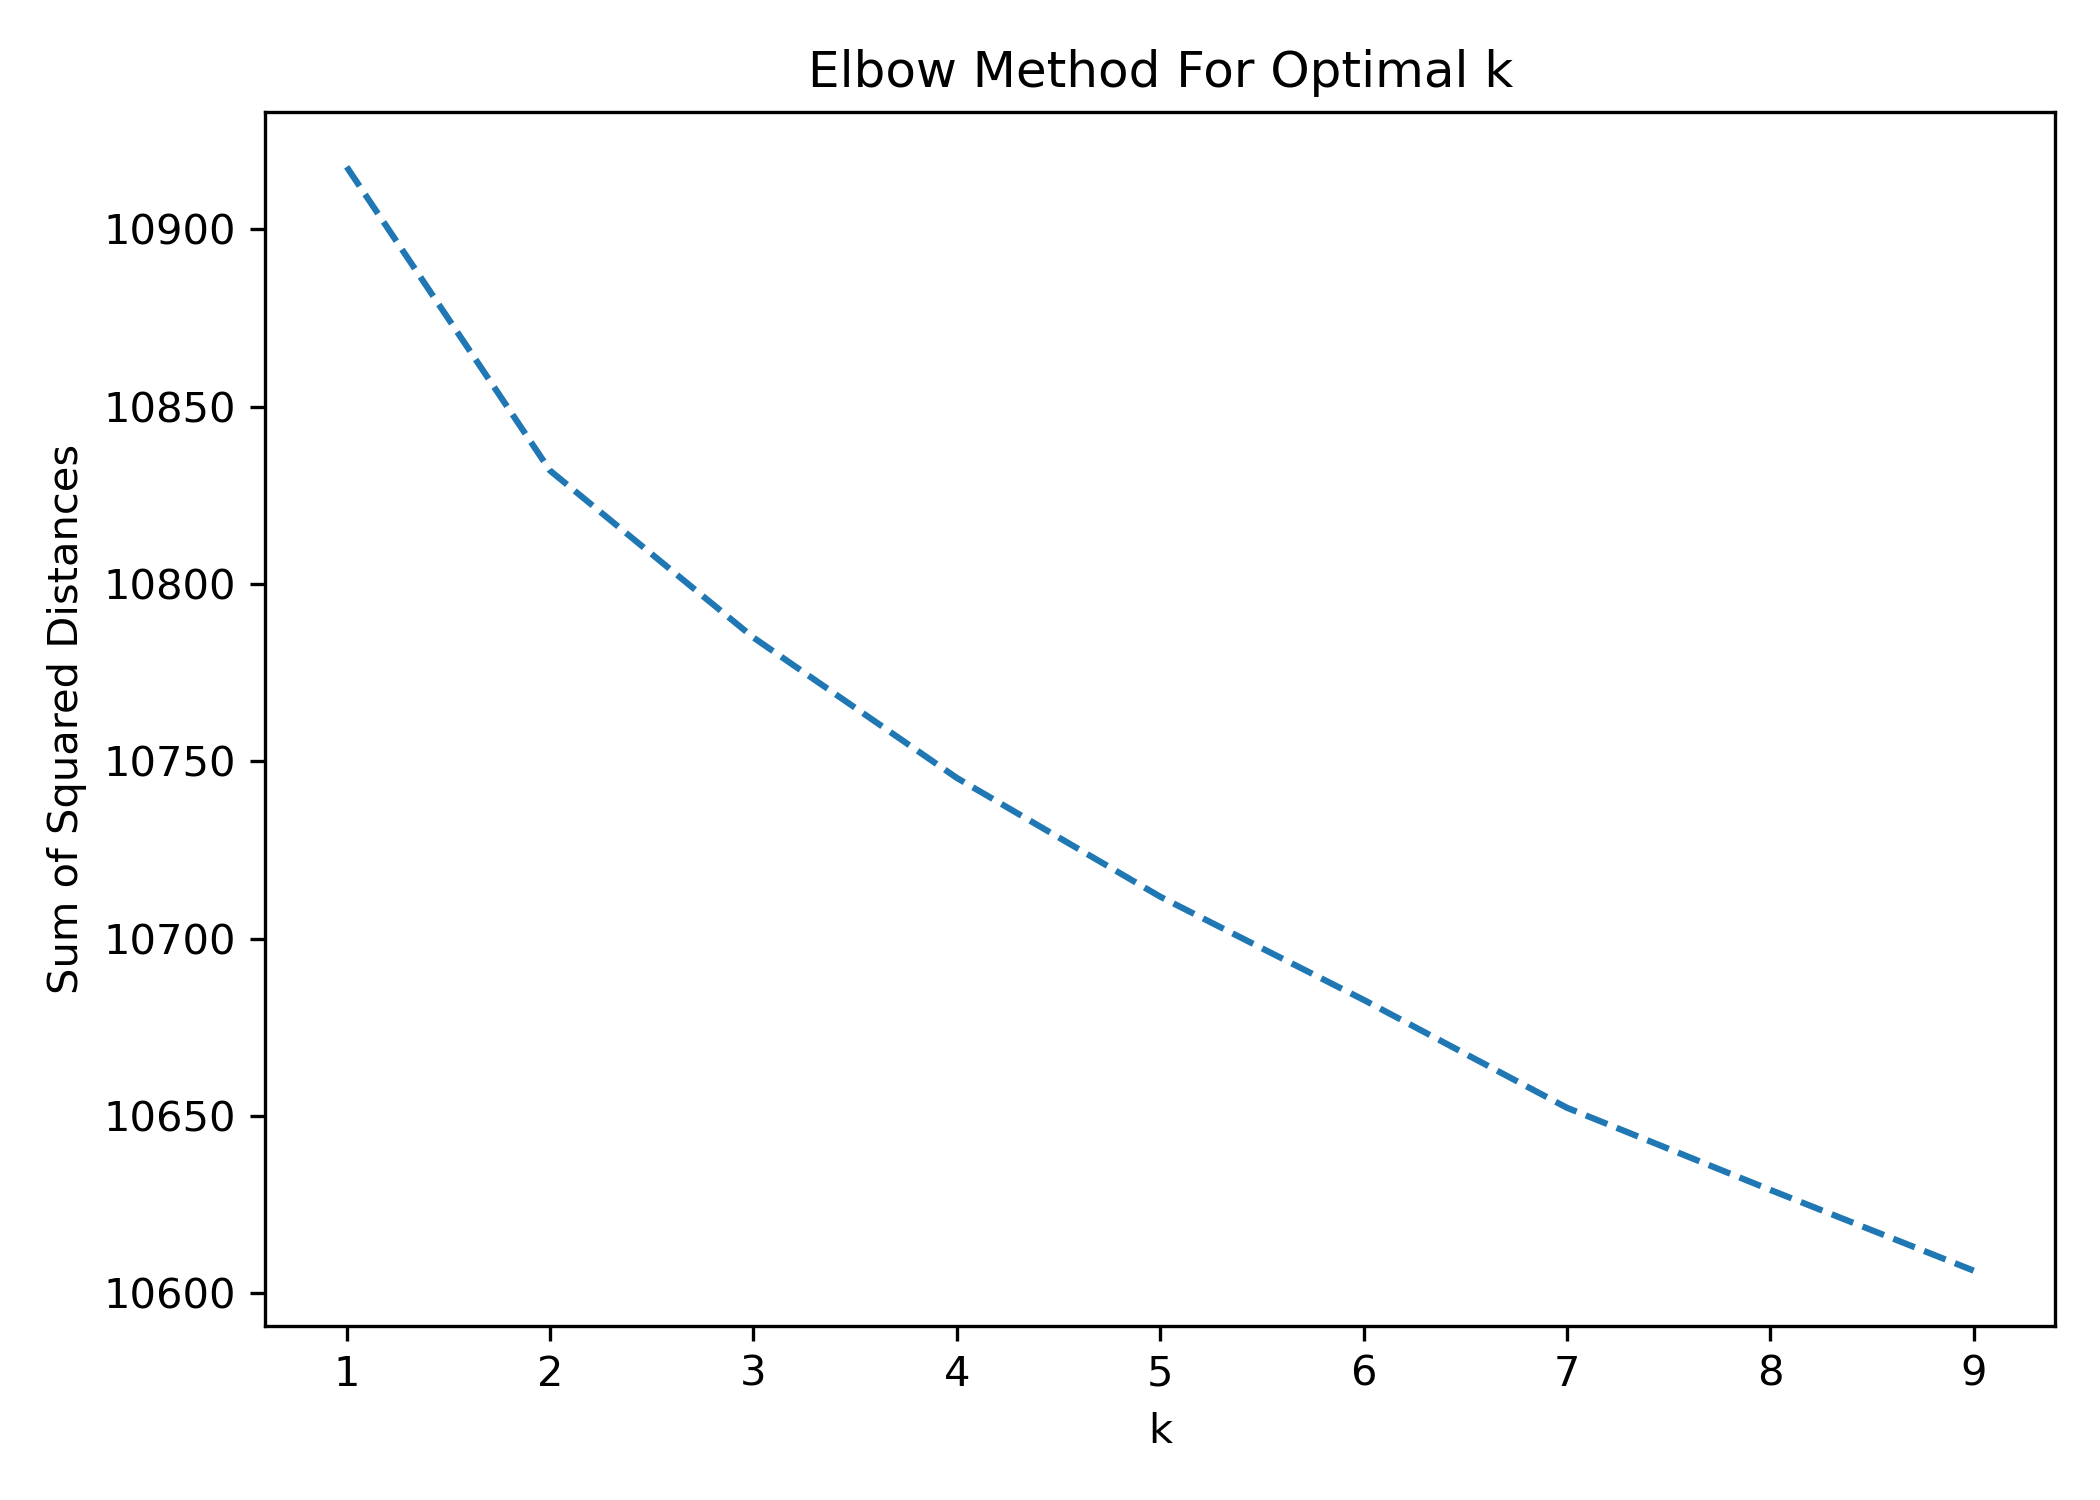
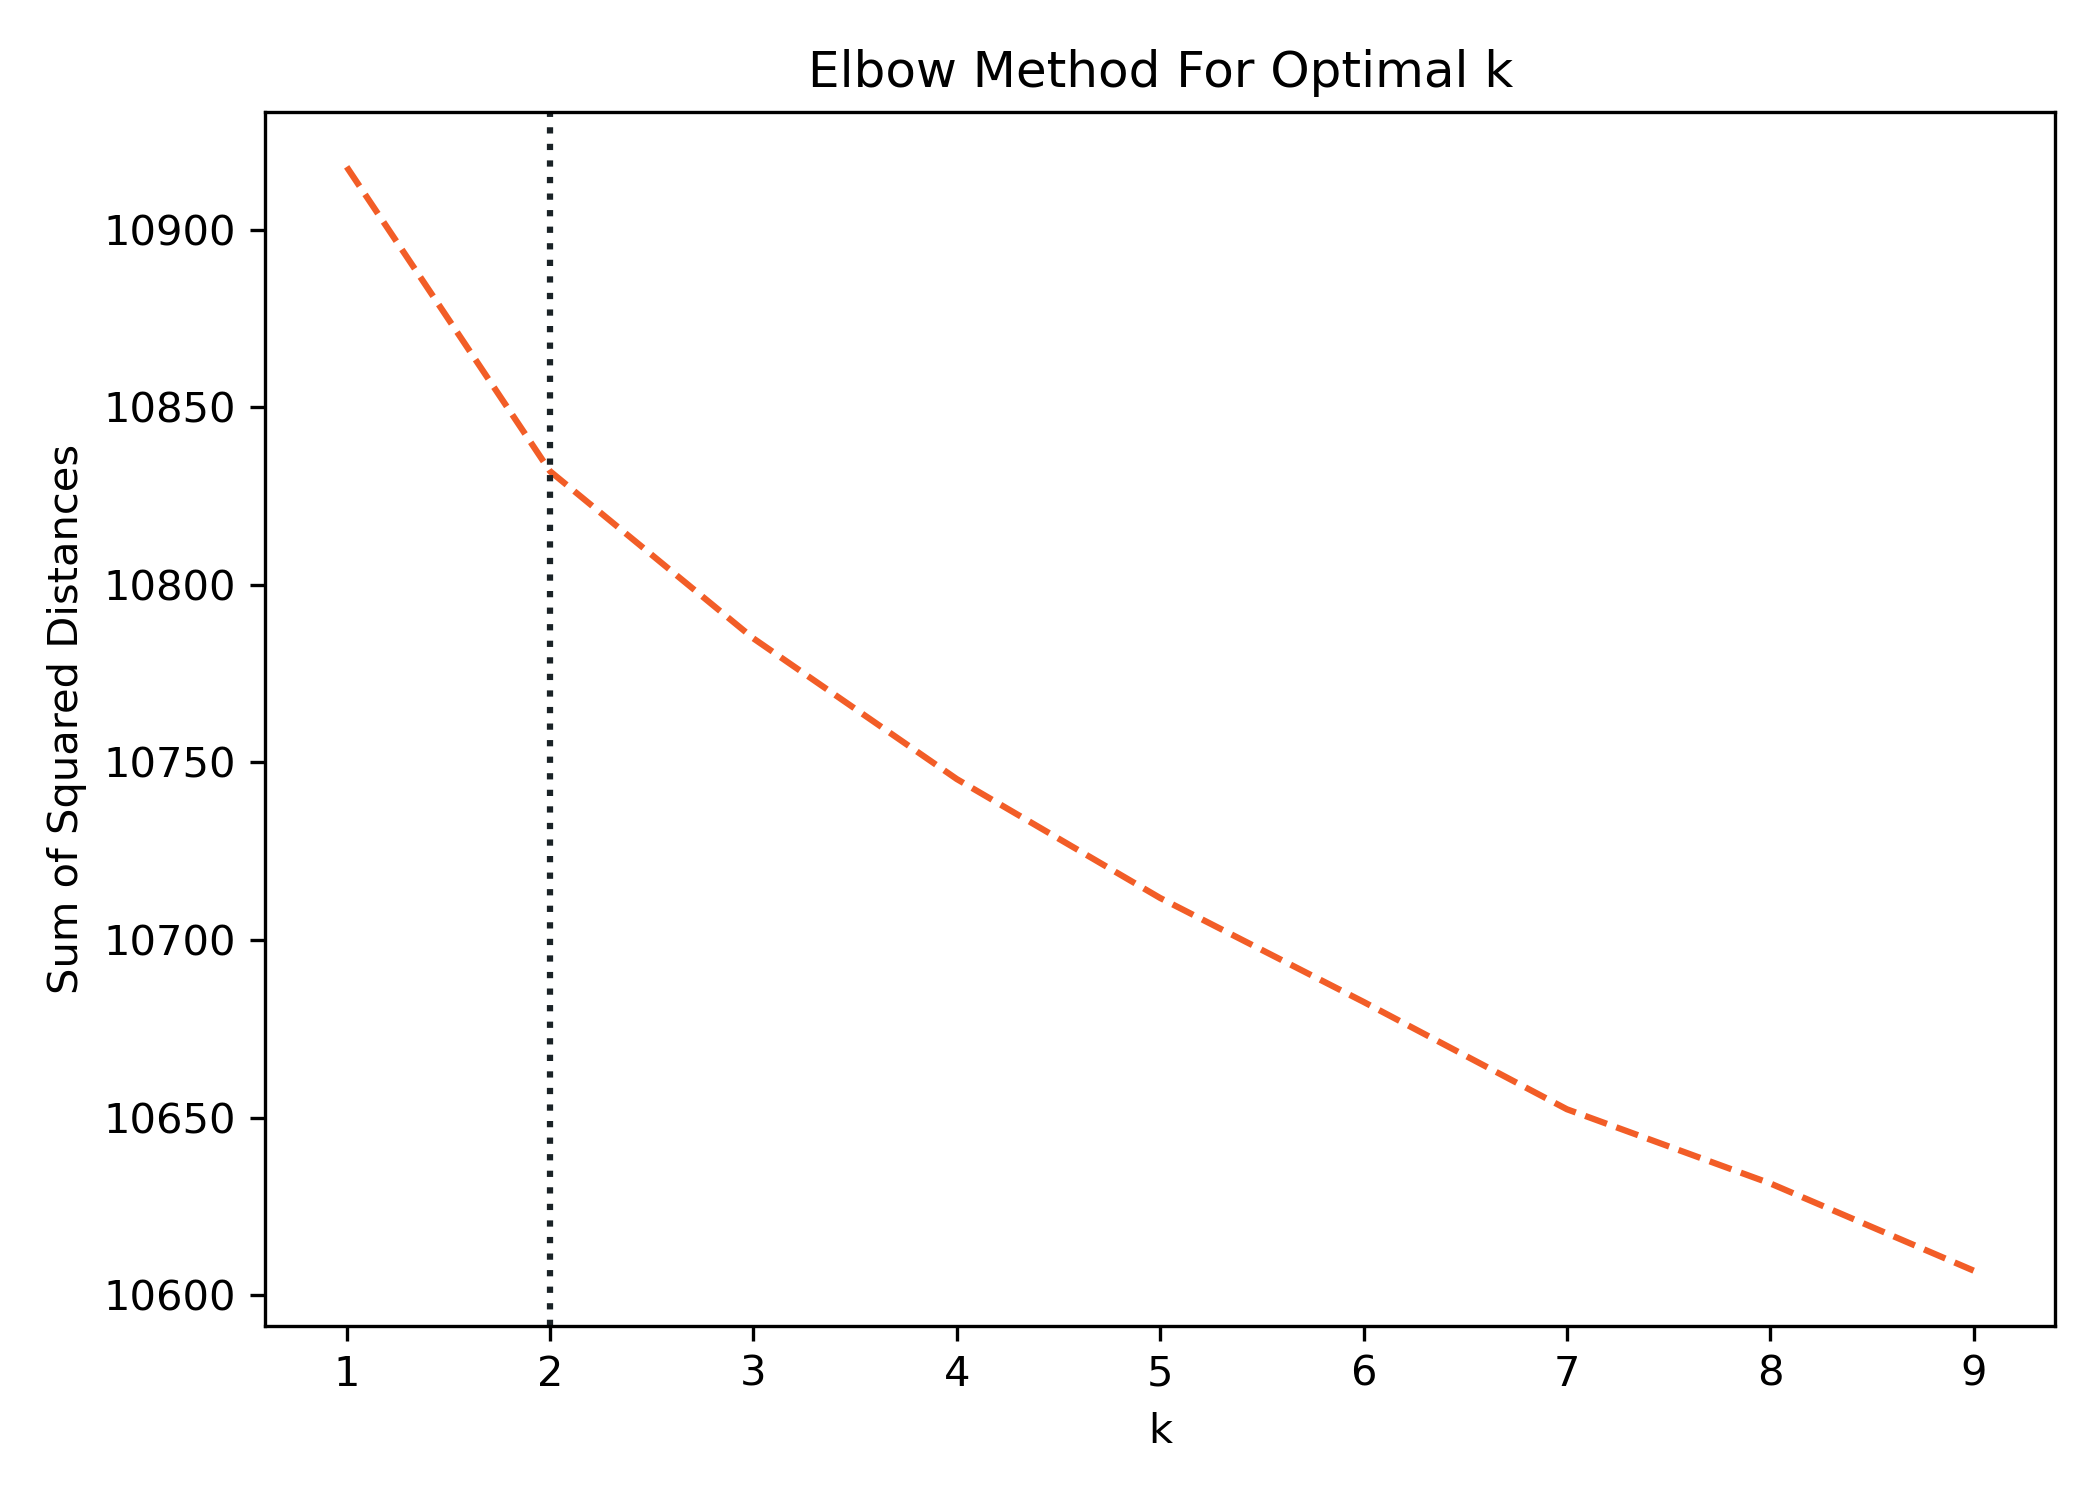
Pre Grammarly

diff --git a/content/posts/nlp/textclustering.md b/content/posts/nlp/textclustering.md
@@ -12,9 +12,13 @@ Twitter_Image: images/covers/wine.jpg
 
 ## What Text Clustering?
 
+In the last post we talked about [Topic Modeling]({filename}topicmodels.md), or a way to idetify a number of topics form a corpus of documents.  The method used there was Latent Dirichlet Allocation, or LDA.  In this article, we're going to perform a similar task but through the use of the **unsupervised machine learning** method of **clustering**.  While the method is different, the outcome is a number of groups (or topics) of words that are related to each other.
 
+For this eaxample, we're going to use the Wine Spectator reviews dataset from Kaggle[^KAGGLE].  It contains a little over 100,000 different wine reviews of varietals from around the world.  The descriptions of the wines as tasting notes is the text-based variable that we're going to use to cluster and interpret the results. 
 
-Start by importing the needed libraries.  Note.  I'm not going to show the preprocessing of the text here.  You can see the full code on [GitHub](https://github.com/broepke/TextClustering).
+Start by importing the needed libraries.  
+
+**Note**:  I'm not going to show the preprocessing of the text here.  You can see the full code on [GitHub](https://github.com/broepke/TextClustering).  There is also a full article on [Text Cleaning]({filename}textcleaning.md) you can reference.
 
 ```python
 from sklearn.feature_extraction.text import TfidfVectorizer
@@ -26,7 +30,14 @@ import seaborn as sns
 %matplotlib inline
 ```
 
-## Word Vectorizing
+## Text Vectorizing
+
+Vectorizing text is the process of converting text **documents** into **numeric representations**.  There are a couple different versions of this such as Bag-of-Words (BoW) or Term Frequency (TF) as well as Term Frequency Inverse Document Frequency (TF-IDF) which we'll be using here.
+
+* **BoW or TF**: Represents the count of each word on a per document basis. In this case, a document an observation in the data set of the column we're targeting.
+* **TF-IDF**: As opposed to just taking the count of words, it inverts this and gives a higher weighting to those words that appear less frequenty.  This means common words have a lower weighting where words that are probably more domain specific and appear less, will have a higher weighting.
+
+It's quite easy to create the **TF-IDF**, simply create an instance of the vectorizer and then `fit-transform` the column of the Data Frame.
 
 ```python
 vectorizer = TfidfVectorizer()
@@ -35,10 +46,13 @@ X = vectorizer.fit_transform(df['description_clean'])
 
 ## Determining the Best Number of Clusters
 
+I mentioned above that clustering is an **unsupervised** machine learning method.  Unsupervised means that we don't have information in our dataset that tells us the *right* answer; this is commonly referred to as **labeled data**.  In our case we don't know how many differnt types of wine there are or different topics that are discussed in the text.  However, just becasue we don't know this information, it doesn't mean we can't try to find the right number of clusters. 
 
+With clustering we need to initialize a number of **cluster-centers**.  This number is fed into the model and then after the results are outputted, someone with knowlege of the data can interprete those results.  There are howver ways to try to evaluate which is the right number of cluster centers.   I'll cover two methods that are commonly used.
 
 ### Elbow Method
 
+The first one is known as the **Elbow Method**.  The name is derrived from the way the plot looks after you run this analysis.  What we're ideally looking for is a point where the curve starts to flatten out.  This method uses `inertia` to determine the number of clusters.  The inertia is the **sum of the squared distances** from each point to the cluster center.  We can calculate this for a sequence of different cluster values and plot them and look for the **elbow**.
 
 
 ```python
@@ -51,21 +65,25 @@ for k in K:
 
 ax = sns.lineplot(x=K, y=Sum_of_squared_distances)
 ax.lines[0].set_linestyle("--")
+
+# Add a vertical line to show the optimum number of clusters
+plt.axvline(2, color='#F26457', linestyle=':')
+
 plt.xlabel('k')
 plt.ylabel('Sum of Squared Distances')
 plt.title('Elbow Method For Optimal k')
 plt.show()
 ```
 
+After the data is plotted, the elbow isn't totally obvious, but the best approximation is at 2 clusters where we see a *slight kink* in the curve.  I've plotted a vertical line to identify it.
+
 ![Elbow Method]({static}../../images/posts/textclustering_elbow.png) 
 
 ### Silhouette Score
 
+Another method for caculating the best number of cluster centers is the **Silhouette Coefficient**.  The Silhouette Coefficient is calculated using the mean intra-cluster distance and the mean nearest-cluster distance for each sample. In other words, the distance between a sample and the nearest cluster that the sample is not a part of[^SCIKIT].
 
-**FIX ME** The Silhouette Coefficient is calculated using the mean intra-cluster distance (`a`) and the mean nearest-cluster distance (`b`) for each sample. The Silhouette Coefficient for a sample is `(b - a) / max(a, b)`. To clarify, b is the distance between a sample and the nearest cluster that the sample is not a part of. Note that Silhouette Coefficient is only defined if number of labels is `2 <= n_labels <= n_samples - 1`.
-
-The best value is `1`, and the worst value is `-1`. Values near `0` indicate overlapping clusters. Negative values generally indicate that a sample has been assigned to the wrong cluster, as a different cluster is more similar.
-
+The best value is `1`, and the worst value is `-1`. Values near `0` indicate overlapping clusters. Negative values generally indicate that a sample has been assigned to the wrong cluster, as a different cluster is more similar.  Let's calculate these scores for for various cluster centers values as well.
 
 
 ```python
@@ -90,10 +108,16 @@ For n_clusters = 8 The average silhouette_score is: 0.005962146586290015
 For n_clusters = 9 The average silhouette_score is: 0.00632540099660495
 ```
 
+Per the definition, the number closest to `1` is the best, which in our case is `2` clusters.  The values are however close to zero meaning there is high overlap of our clusters.  
+
+While neither method gave us ideal visibility into the number of clusters we should use, both point to `2` as the best value.
 
 
 ## Clustering with k-Means
 
+Okay! We're ready to build our model and check our results.  This process is pretty straight forward.  We're going to repeat most of what we did above but on a single run with the number of clusters we've selected.
+
+For this example we're going to use k-Means.  k-Means is one of the most common, if not the most common clustering algorithm.  Normally, k-Means will randomly initialize cluster center and then iterate until it finds ideal locations.  In the paramerters below we're specifying `init="k-means++"` which means that we're going to use the k-means++ algorithm to initialize the cluster centers which was proposed in 2007 as a way to reduce issues with random initialization[^WIKI].  For starters, I would suggest using this but also would sugest you read up a little bit on how it works.
 
 ```python
 # Set the number of clusters
@@ -106,6 +130,7 @@ model = KMeans(init="k-means++", n_clusters=k, max_iter=25, n_init=1)
 model.fit(X)
 ```
 
+This is an optional step, but sometimes it's handy to create a new column in our dataframe with the cluster numbers for future reference.
 
 ```python
 # Get the cluster labels
@@ -116,6 +141,7 @@ kmeans_labels = pd.DataFrame(clust_labels)
 df.insert((df.shape[1]),'clusters',kmeans_labels)
 ```
 
+And finally, let's build a quick dataframe that shows the top `15` words from each of the two clusters and see what we get.
 
 ```python
 order_centroids = model.cluster_centers_.argsort()[:, ::-1]
@@ -134,7 +160,6 @@ for i in range(k):
 df_clusters = pd.DataFrame.from_dict(results_dict)
 df_clusters
 ```
-
 
 ```text
     Cluster 0   Cluster 1
@@ -155,8 +180,11 @@ df_clusters
 14      lemon       sweet
 ```
 
+Looking at cluster `0` we see words that would typically be associated with **White** wines and cluster `1` are words that are associated with **Red**.
+
 ## Predicting New Docs
 
+Next we can try to see how the model would cluster new wine reviews that it's not seen in the past.  I've made up a few sentences that use words that white and red wines might have assocated to them.
 
 ```python
 new_docs = ['Rich deep color of oak and chocolate.',
@@ -171,18 +199,20 @@ print(pred)
 [1 0 0 1]
 ```
 
+The red wines are classified as `1` and whites as `0` exactly as we would expect! You can play around with other strings and see how it performs.
+
 ## Conclusion
 
-
-## References
-
-[^KAGGLE]: [Wine Reviews](https://www.kaggle.com/zynicide/wine-reviews)
+The first time I performed clustering on this dataset I was honestly blown away.  It was so obvious to me that with `2` clusters the algorithm was identifying and clustering red versus white wines.  This to me felt a little like magic, but in the end it's just math!  Enjoy playing with this process.  It's powerful, and can help you identify related groups of topics in your text! 
 
 
 *If you liked what you read, [subscribe to my newsletter](https://campaign.dataknowsall.com/subscribe) and you will get my cheat sheet on Python, Machine Learning (ML), Natural Language Processing (NLP), SQL, and more. You will receive an email each time a new article is posted.*
 
 ## References
 
+[^KAGGLE]: [Wine Reviews](https://www.kaggle.com/zynicide/wine-reviews)
+[^SCIKIT]: [Silhouette Score on Scikit-Learn](https://scikit-learn.org/stable/modules/generated/sklearn.metrics.silhouette_score.html)
+[^WIKI]: [k-means++](https://en.wikipedia.org/wiki/K-means%2B%2B)
 
 Photo by <a href="https://unsplash.com/@qwitka?utm_source=unsplash&utm_medium=referral&utm_content=creditCopyText">Maksym Kaharlytskyi</a> on <a href="https://unsplash.com/s/photos/wine?utm_source=unsplash&utm_medium=referral&utm_content=creditCopyText">Unsplash</a>
 

diff --git a/content/posts/nlp/bow-tf-idf.md b/content/posts/nlp/bow-tf-idf.md
@@ -24,3 +24,5 @@ file:///Users/brianroepke/Projects/DATA110/Week%2011/DATA110-Week11-Midterm-broe
 
 Photo by <a href="https://unsplash.com/@jan_huber?utm_source=unsplash&utm_medium=referral&utm_content=creditCopyText">Jan Huber</a> on <a href="https://unsplash.com/s/photos/frequency?utm_source=unsplash&utm_medium=referral&utm_content=creditCopyText">Unsplash</a>
   
+
+[^GENTLE]: [A Gentle Introduction to the Bag-of-Words Model](https://machinelearningmastery.com/gentle-introduction-bag-words-model/)
